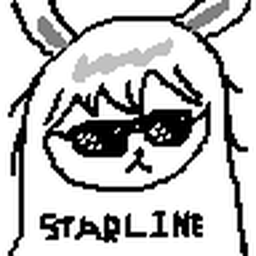
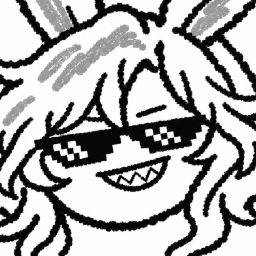
chore: 제작자 프로필 그림 교체 — 원본 (250,290) 750 정사각 → 256 (v0.55.6)
사용자 결정(11-23 B). 원본은 tests/data에서 docs/assets/profile/로 옮김(게임 스크린샷 아님).
렌더 docs/assets/profile/home_avatar.png·settings_creator.png.

Claude-Session: https://claude.ai/code/session_01SbFuD9LBQUw7gFTz2Mmv9g

diff --git a/tests/test_release_checks.py b/tests/test_release_checks.py
@@ -70,20 +70,18 @@ def test_current_plan_maps_every_selected_file_to_changed_code_or_shared_contrac
 
 
 def test_current_release_keeps_feature_boundaries_and_delivery_contracts():
-    """0.55.5: 비로그인 설정 올리기(계정 명세 3.4.3 — 로그인 1.0 예고는 빼 둠) + 배포 계약. (릴리즈마다 경계를 바꾼다 — 누적하지 않음)"""
+    """0.55.6: 제작자 프로필 그림 교체 + 배포 계약. (릴리즈마다 경계를 바꾼다 — 누적하지 않음)"""
     root = Path(__file__).resolve().parents[1]
     plan = json.loads((root / 'packaging/release_checks.json').read_text(encoding='utf-8'))
     paths = set(plan['tests'])
     assert {
-        'tests/test_cloud_sync.py', 'tests/test_settings_sync.py',
+        'tests/test_bundle_layout.py', 'tests/test_skillbar_testers.py',
         'tests/test_startup_build.py', 'tests/test_release_checks.py', 'tests/test_release_candidate.py',
         'tests/test_windows_ci.py', 'tests/test_startup_smoke.py',
     } <= paths
     assert {
-        'src/mabinogi_addon/cloud_sync.py', 'src/mabinogi_addon/account.py', 'src/mabinogi_addon/ui/account_controller.py',
-        'packaging/build_windows.py', 'src/mabinogi_addon/assets/release_notes.md',
+        'src/mabinogi_addon/assets/profile.png', 'packaging/build_windows.py', 'src/mabinogi_addon/assets/release_notes.md',
     } <= set(plan['coverage'])
-    assert not (root / 'src/mabinogi_addon/login_notice.py').exists()   # 로그인 1.0 예고는 0.55.5에 없음
     # The separate development entry must continue collecting the whole suite.
     regression = (root / '.github/workflows/regression.yml').read_text(encoding='utf-8')
     assert 'scripts.run_regressions' in regression

diff --git a/tests/test_bundle_layout.py b/tests/test_bundle_layout.py
@@ -93,3 +93,17 @@ def test_no_asset_reads_relative_to_module_file():
             if "__file__" in line or any(re.search(rf"\b{re.escape(n)}\b", line) for n in names):
                 offenders.append(f"{py.relative_to(ROOT)}:{no}: {line.strip()}")
     assert not offenders, "assets는 paths.resource_dir()로만 읽는다(exe 번들 경로):\n" + "\n".join(offenders)
+
+
+def test_creator_profile_image_is_new_face_crop():
+    """0.55.6(사용자 결정 11-23 B): 원본 docs/assets/profile/섯다라인.png (250,290) 750 정사각 → 256 — 앱 그림과 같은지."""
+    import cv2
+    import numpy as np
+
+    from mabinogi_addon import image_io, paths
+    app = image_io.imread(paths.resource_dir() / "profile.png", cv2.IMREAD_UNCHANGED)
+    src = image_io.imread(ROOT / "docs" / "assets" / "profile" / "섯다라인.png", cv2.IMREAD_COLOR)
+    assert app is not None and app.shape == (256, 256, 4)
+    want = cv2.resize(src[290:1040, 250:1000], (256, 256), interpolation=cv2.INTER_AREA)
+    assert np.abs(app[:, :, :3].astype(int) - want.astype(int)).max() <= 1
+    assert not (ROOT / "tests" / "data" / "섯다라인.png").exists()   # 게임 스크린샷 아님 — 판독 자료에서 뺌

diff --git a/docs/status.md b/docs/status.md
@@ -8,6 +8,7 @@
 
 > 11-17: 이 규칙들은 CLAUDE.md 'QA 세션 필수 규칙'에도 옮김 — status.md는 매번 자동으로 읽히지 않아 지켜지지 않았음(사용자 지적).
 
+- **0.55.6 개발(11-23 DEV, 사용자 결정 B — 제작자 프로필 그림)** — 원본 3e24f8df `tests/data/섯다라인.png`를 `docs/assets/profile/`로 옮기고(게임 스크린샷 아님 — 큰 스크린샷 목록·판독 자료에서 뺌), (250,290) 750 정사각 크롭 → 256×256 INTER_AREA BGRA로 `assets/profile.png` 교체(코드 변경 없음). 렌더 docs/assets/profile/home_avatar.png·settings_creator.png. `tests/test_bundle_layout.py::test_creator_profile_image_is_new_face_crop`. 노트 v0.55.6 한 줄.
 - **0.55.5 정리(11-23 DEV, 사용자 결정 '비로그인 현황 먼저 보고 정하기')** — 로그인 1.0 예고 제품 변경(1771833e·d44d3473)을 main에서 되돌림(명세 4.1·렌더 docs/assets/login-notice-20261123·status 기록은 남김, 다시 넣을 땐 이 되돌림 커밋을 revert). 비로그인 설정 올리기(960a7d9f·ac32fa57·1eb22842)는 그대로. 버전 0.55.5, 노트 '앱 내부를 조금 다듬었어요.'(미게시 ## v0.56.0 섹션 없앰), release_checks 0.55.5·경계(login_notice.py 없음 확인). test_home_page 순서 의존 보강은 유지. 배포 검사 0.55.5 319 통과.
   서버: discord_bot main 9848a86에 `PUT /guest/settings` 있음. 봇 CI는 VM 코드만 갱신하고 addon-server는 재시작하지 않으므로, VM에서 `sudo systemctl restart addon-server` 해야 새 경로가 뜸(이 컨테이너는 starline-bot.duckdns.org 접속이 프록시 403으로 막혀 직접 시험 불가).
 - **0.55.3 개발(11-22 DEV, QA 전달 사용자 '음성파일 추가했어')** — 사용자 6703bbd8 `assets/sounds/조용한 여성/` 11개(파티 알림 없음 → 기본 녹음본 폴백, 코드 변경 없음). 노트 v0.55.3 한 줄, gen_tts 주석, `tests/test_config_buffs.py` 사용자 녹음 팩 테스트를 팩 이름 매개변수화(화난 여성·조용한 여성), release_checks 0.55.3·경계.

diff --git a/docs/assets/profile/README.md b/docs/assets/profile/README.md
@@ -1,0 +1,5 @@
+# 제작자 프로필 그림
+
+- 원본: `섯다라인.png`(1254×1254, 사용자 제공 11-23 — 3e24f8df에서 tests/data로 올렸던 것을 여기로 옮김, 게임 스크린샷 아님).
+- 앱 그림 `src/mabinogi_addon/assets/profile.png`: 원본에서 **x=250, y=290, 한 변 750 정사각** 크롭(얼굴, 아래 글씨 제외 — 사용자 결정 B) → 256×256(INTER_AREA), BGRA.
+- 쓰는 곳: 설정 › 제작자 머리(48px 원형)·홈 오른쪽 아래 잡담 아바타(48px 원형). 렌더: `settings_creator.png`·`home_avatar.png`.

diff --git a/src/mabinogi_addon/assets/release_notes.md b/src/mabinogi_addon/assets/release_notes.md
@@ -1,3 +1,8 @@
+## v0.55.6
+
+조용히 다듬은 것들
+- 제작자 프로필 그림을 새로 바꿨어요.
+
 ## v0.55.5
 
 조용히 다듬은 것들
